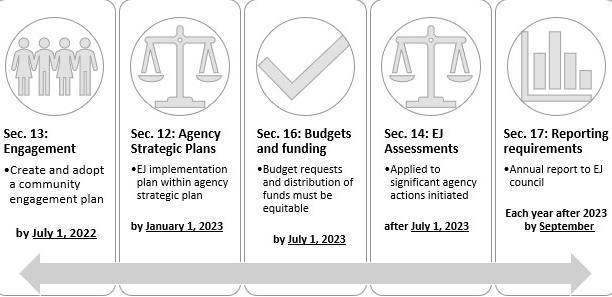
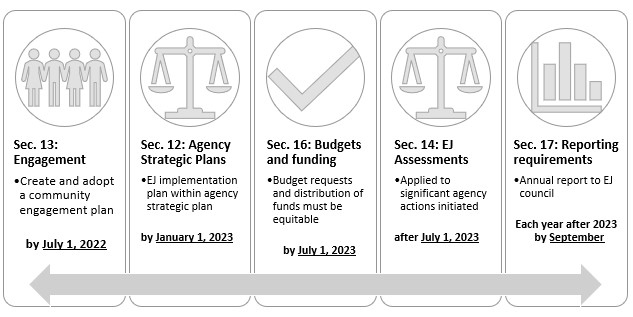
Added new image

Changed region(s): [[0.0, 0.0, 1.0, 1.0], [0.9935, 0.0, 1.0, 0.0303]]

diff --git a/HEAL.php b/HEAL.php
@@ -80,6 +80,8 @@
 	Environmental justice includes addressing disproportionate environmental health impacts in all laws, rules, and policies with environmental impacts by prioritizing vulnerable populations and overburdened communities, the equitable distribution of resources and benefits, and eliminating harm.”</blockquote> 
  
 	<p>HEAL further establishes environmental justice obligations for the Partnership, including requirements to participate in the state’s Environmental Justice Council and interagency workgroup, develop and implement community engagement and tribal consultation frameworks, incorporate environmental justice into implementation plans and budget development processes, and reporting on impacts and outcomes of environmental justice.</p>
+			
+			<img src="images/HEAL-timeline.jpg" width="612px" height="297px" alt="Timeline for the HEAL ACT">
 
  
 			 
